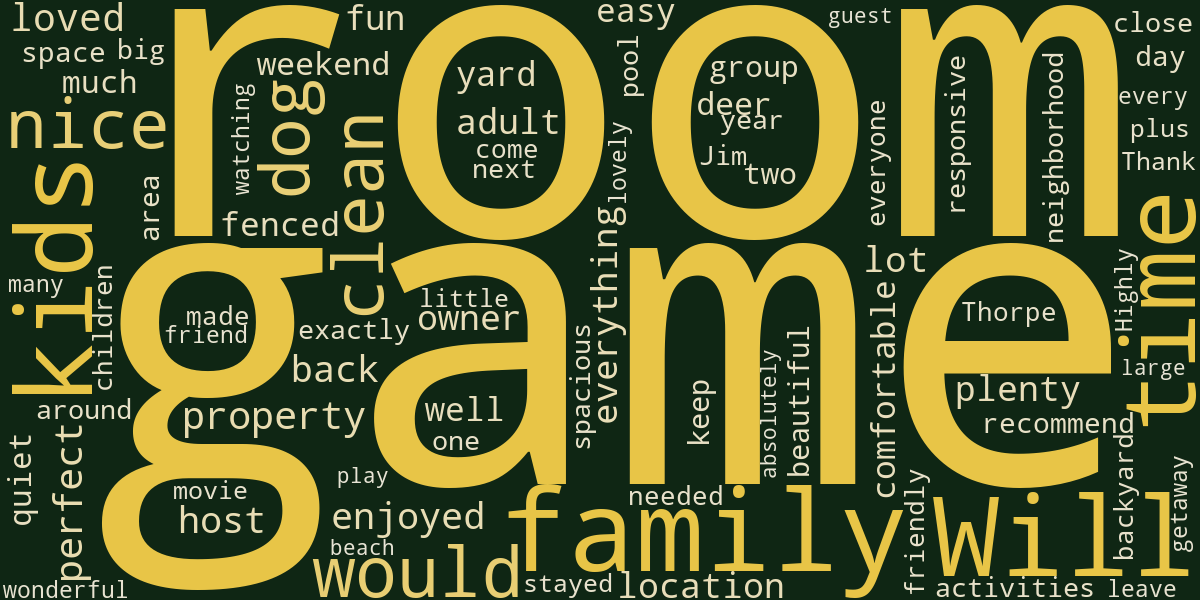
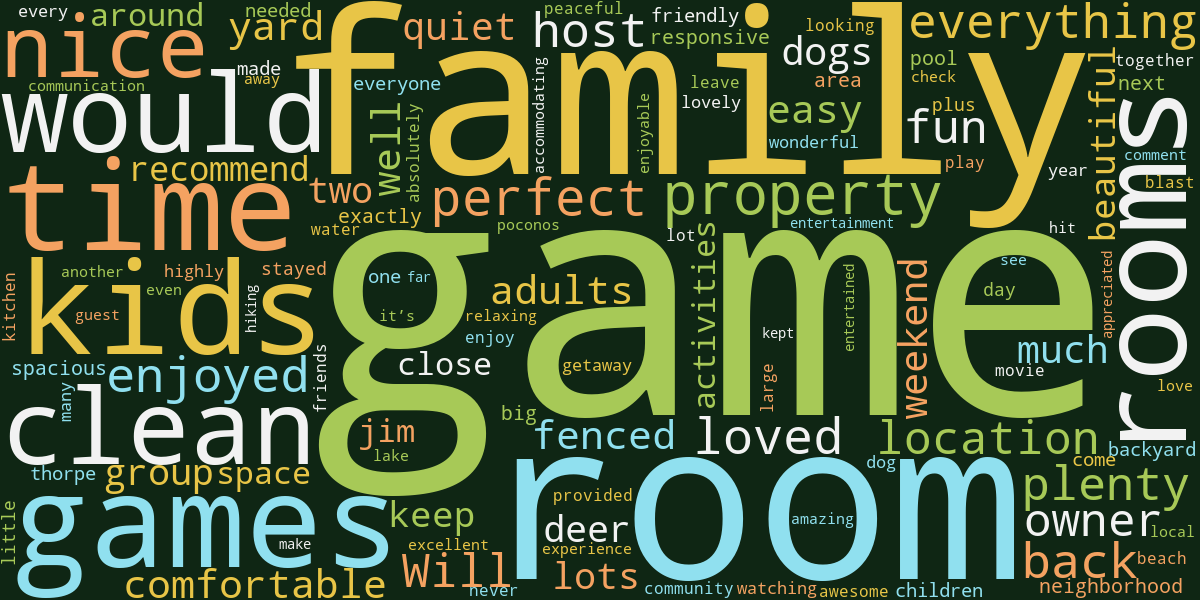
feat(wordclouds): multi-color palette + new heading "What our guests have to say"

diff --git a/assets/style.css b/assets/style.css
@@ -302,6 +302,13 @@ section + section { border-top: 1px solid var(--line); }
 /* ========= per-property word cloud ========= */
 .wordcloud-section { padding: 40px 0; }
 .wordcloud-section h2 { margin-bottom: 6px; font-size: 3rem; line-height: 1.1; }
+.wordcloud-section .wordcloud-subtitle {
+  font-size: 0.95rem;
+  font-style: italic;
+  color: var(--ink-soft);
+  margin-top: -8px;
+  margin-bottom: 12px;
+}
 @keyframes throb-a { 0%, 100% { color: #d62828; } 50% { color: #ffd60a; } }
 @keyframes throb-b { 0%, 100% { color: #ffd60a; } 50% { color: #d62828; } }
 .throb-love { animation: throb-a 1.5s ease-in-out infinite; font-weight: 700; }

diff --git a/maccauley/index.html b/maccauley/index.html
@@ -37,8 +37,8 @@
 </section>
 <section class="wordcloud-section">
   <div class="container">
-    <h2>What guests love</h2>
-    <p style="color:var(--ink-soft); font-size:0.95rem;">Words from real guest reviews</p>
+    <h2>What our guests have to say</h2>
+    <p class="wordcloud-subtitle">Words from real reviews</p>
     <img src="../assets/wordclouds/maccauley.png" alt="Words guests use most often when reviewing MacCauley" loading="lazy" style="width:100%;max-width:1200px;height:auto;display:block;margin:0 auto;">
   </div>
 </section>

diff --git a/petrarch/index.html b/petrarch/index.html
@@ -37,8 +37,8 @@
 </section>
 <section class="wordcloud-section">
   <div class="container">
-    <h2>What guests love</h2>
-    <p style="color:var(--ink-soft); font-size:0.95rem;">Words from real guest reviews</p>
+    <h2>What our guests have to say</h2>
+    <p class="wordcloud-subtitle">Words from real reviews</p>
     <img src="../assets/wordclouds/petrarch.png" alt="Words guests use most often when reviewing Petrarch" loading="lazy" style="width:100%;max-width:1200px;height:auto;display:block;margin:0 auto;">
   </div>
 </section>

diff --git a/milton/index.html b/milton/index.html
@@ -37,8 +37,8 @@
 </section>
 <section class="wordcloud-section">
   <div class="container">
-    <h2>What guests love</h2>
-    <p style="color:var(--ink-soft); font-size:0.95rem;">Words from real guest reviews</p>
+    <h2>What our guests have to say</h2>
+    <p class="wordcloud-subtitle">Words from real reviews</p>
     <img src="../assets/wordclouds/milton.png" alt="Words guests use most often when reviewing Milton" loading="lazy" style="width:100%;max-width:1200px;height:auto;display:block;margin:0 auto;">
   </div>
 </section>

diff --git a/trails/index.html b/trails/index.html
@@ -37,8 +37,8 @@
 </section>
 <section class="wordcloud-section">
   <div class="container">
-    <h2>What guests love</h2>
-    <p style="color:var(--ink-soft); font-size:0.95rem;">Words from real guest reviews</p>
+    <h2>What our guests have to say</h2>
+    <p class="wordcloud-subtitle">Words from real reviews</p>
     <img src="../assets/wordclouds/trails.png" alt="Words guests use most often when reviewing Trails" loading="lazy" style="width:100%;max-width:1200px;height:auto;display:block;margin:0 auto;">
   </div>
 </section>

diff --git a/pound/index.html b/pound/index.html
@@ -37,8 +37,8 @@
 </section>
 <section class="wordcloud-section">
   <div class="container">
-    <h2>What guests love</h2>
-    <p style="color:var(--ink-soft); font-size:0.95rem;">Words from real guest reviews</p>
+    <h2>What our guests have to say</h2>
+    <p class="wordcloud-subtitle">Words from real reviews</p>
     <img src="../assets/wordclouds/pound.png" alt="Words guests use most often when reviewing Pound" loading="lazy" style="width:100%;max-width:1200px;height:auto;display:block;margin:0 auto;">
   </div>
 </section>

diff --git a/wylie/index.html b/wylie/index.html
@@ -37,8 +37,8 @@
 </section>
 <section class="wordcloud-section">
   <div class="container">
-    <h2>What guests love</h2>
-    <p style="color:var(--ink-soft); font-size:0.95rem;">Words from real guest reviews</p>
+    <h2>What our guests have to say</h2>
+    <p class="wordcloud-subtitle">Words from real reviews</p>
     <img src="../assets/wordclouds/wylie.png" alt="Words guests use most often when reviewing Wylie" loading="lazy" style="width:100%;max-width:1200px;height:auto;display:block;margin:0 auto;">
   </div>
 </section>
